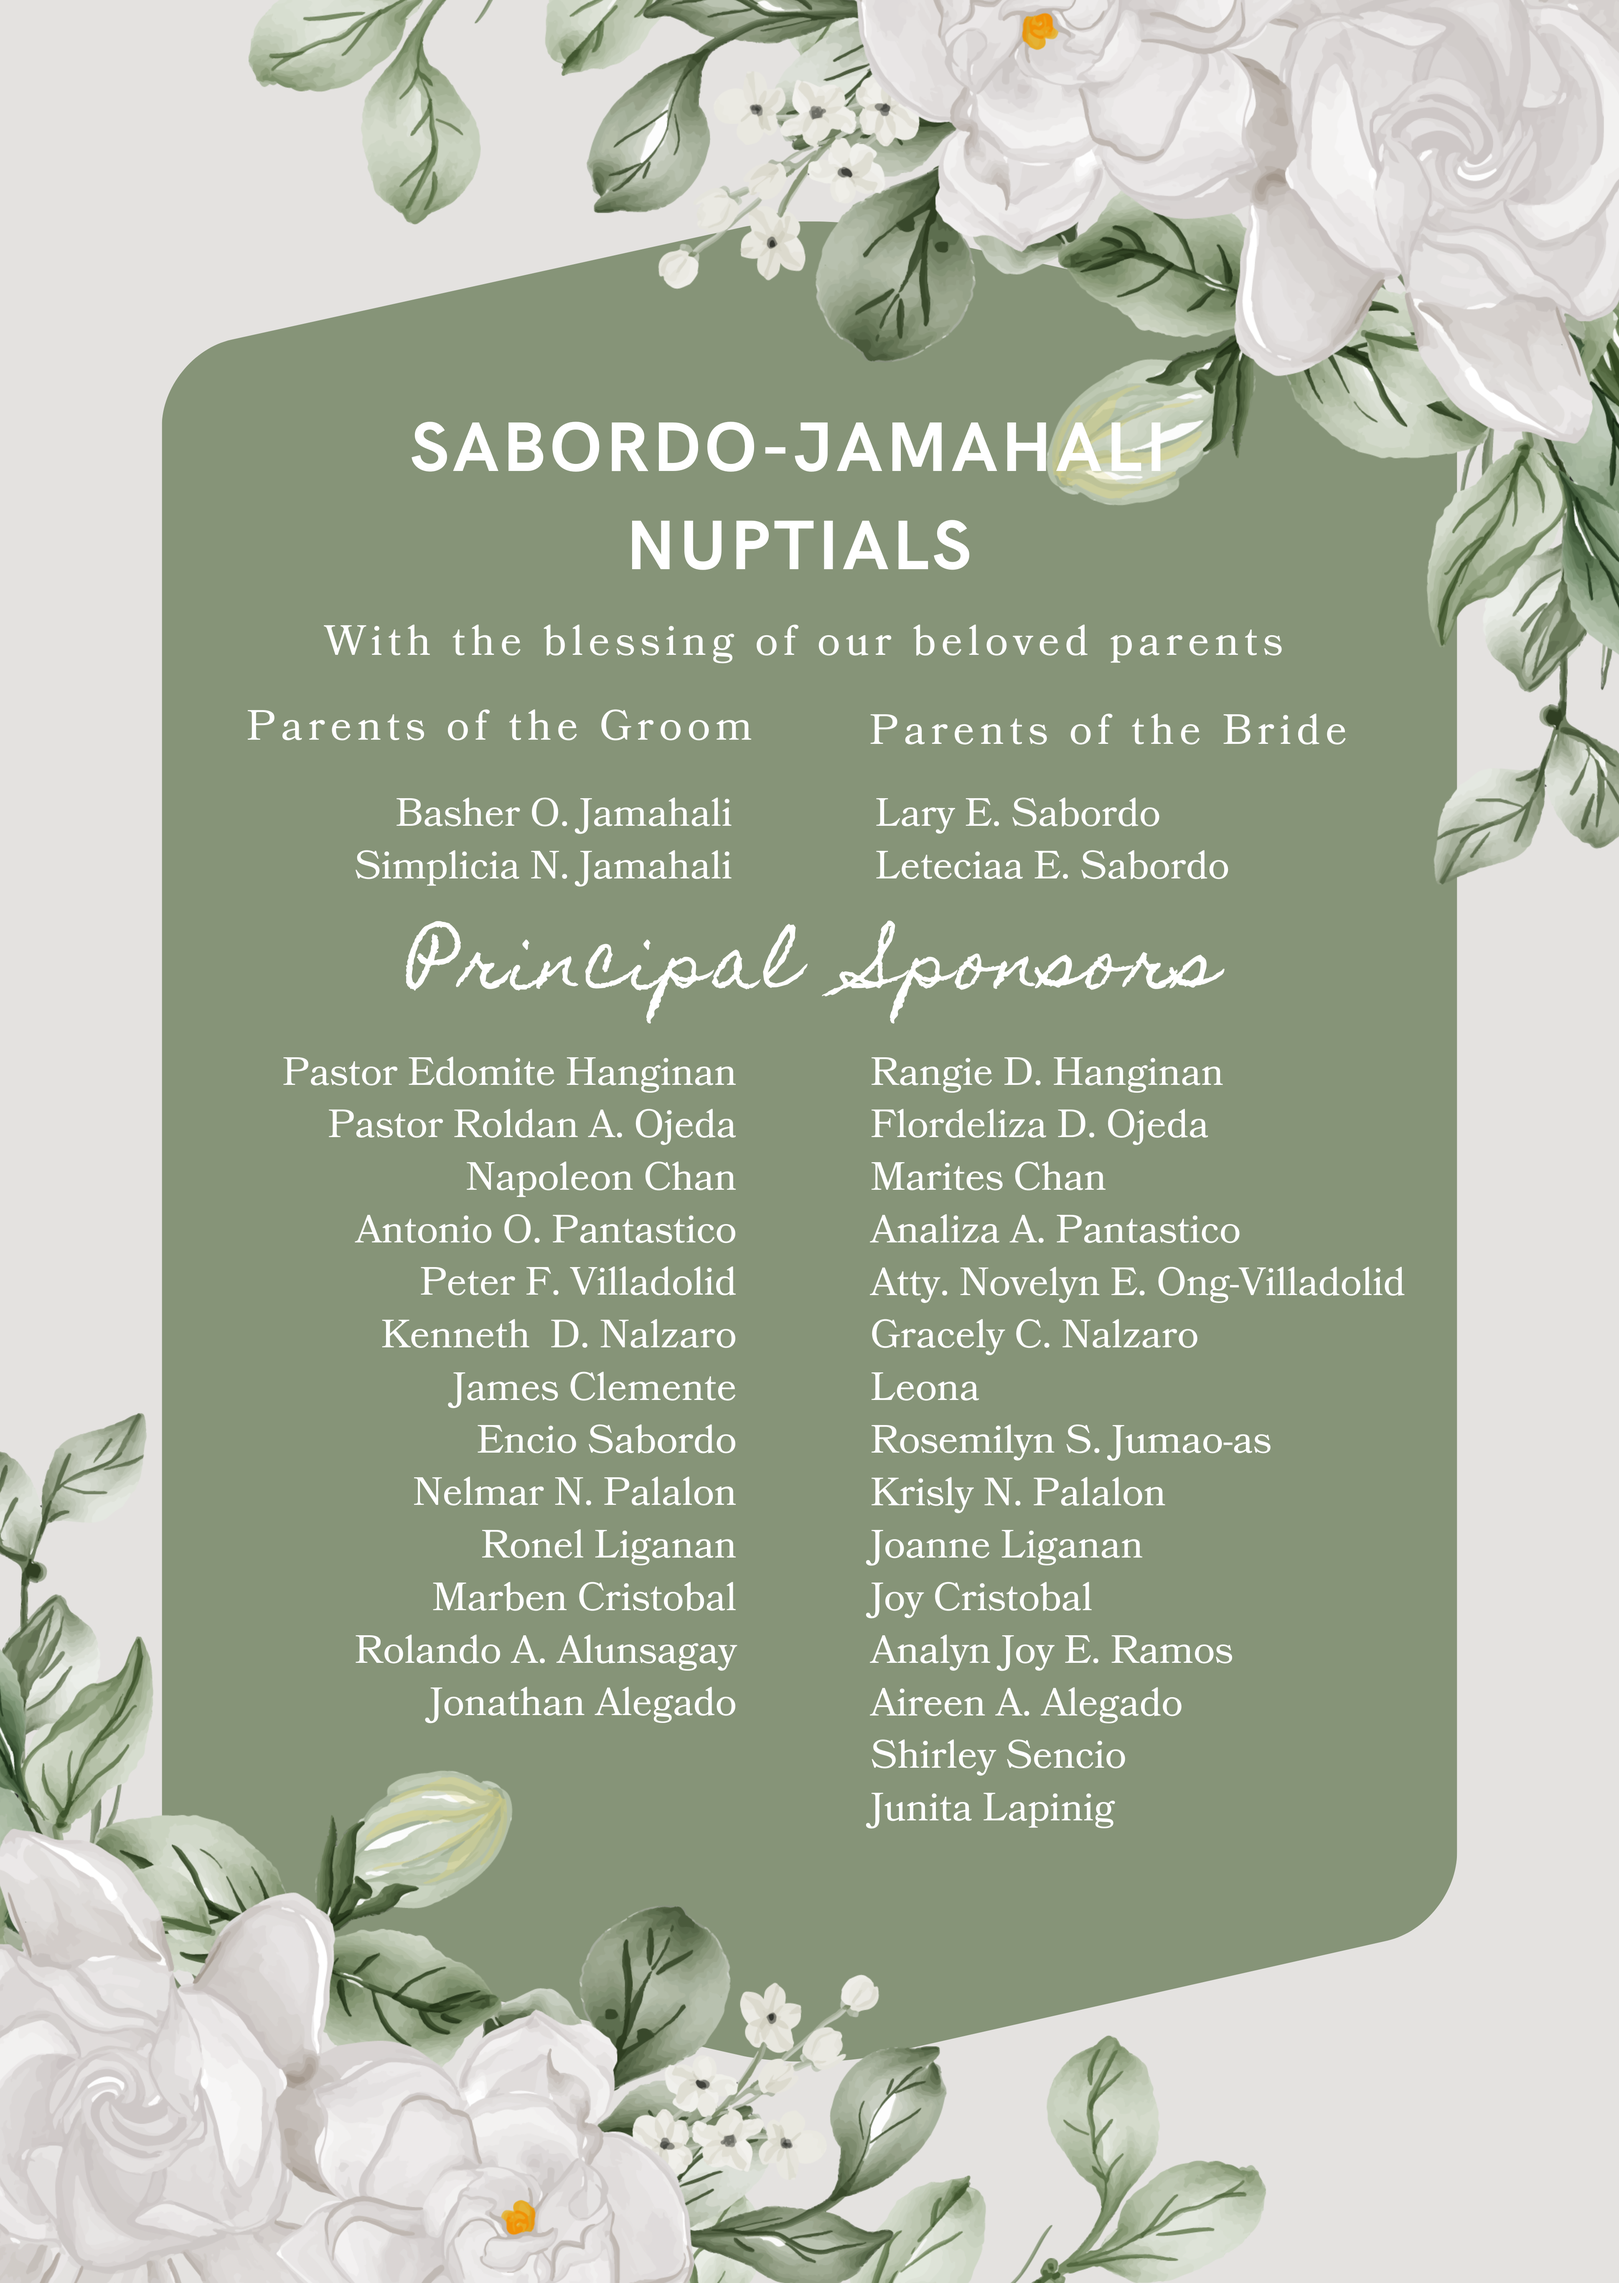
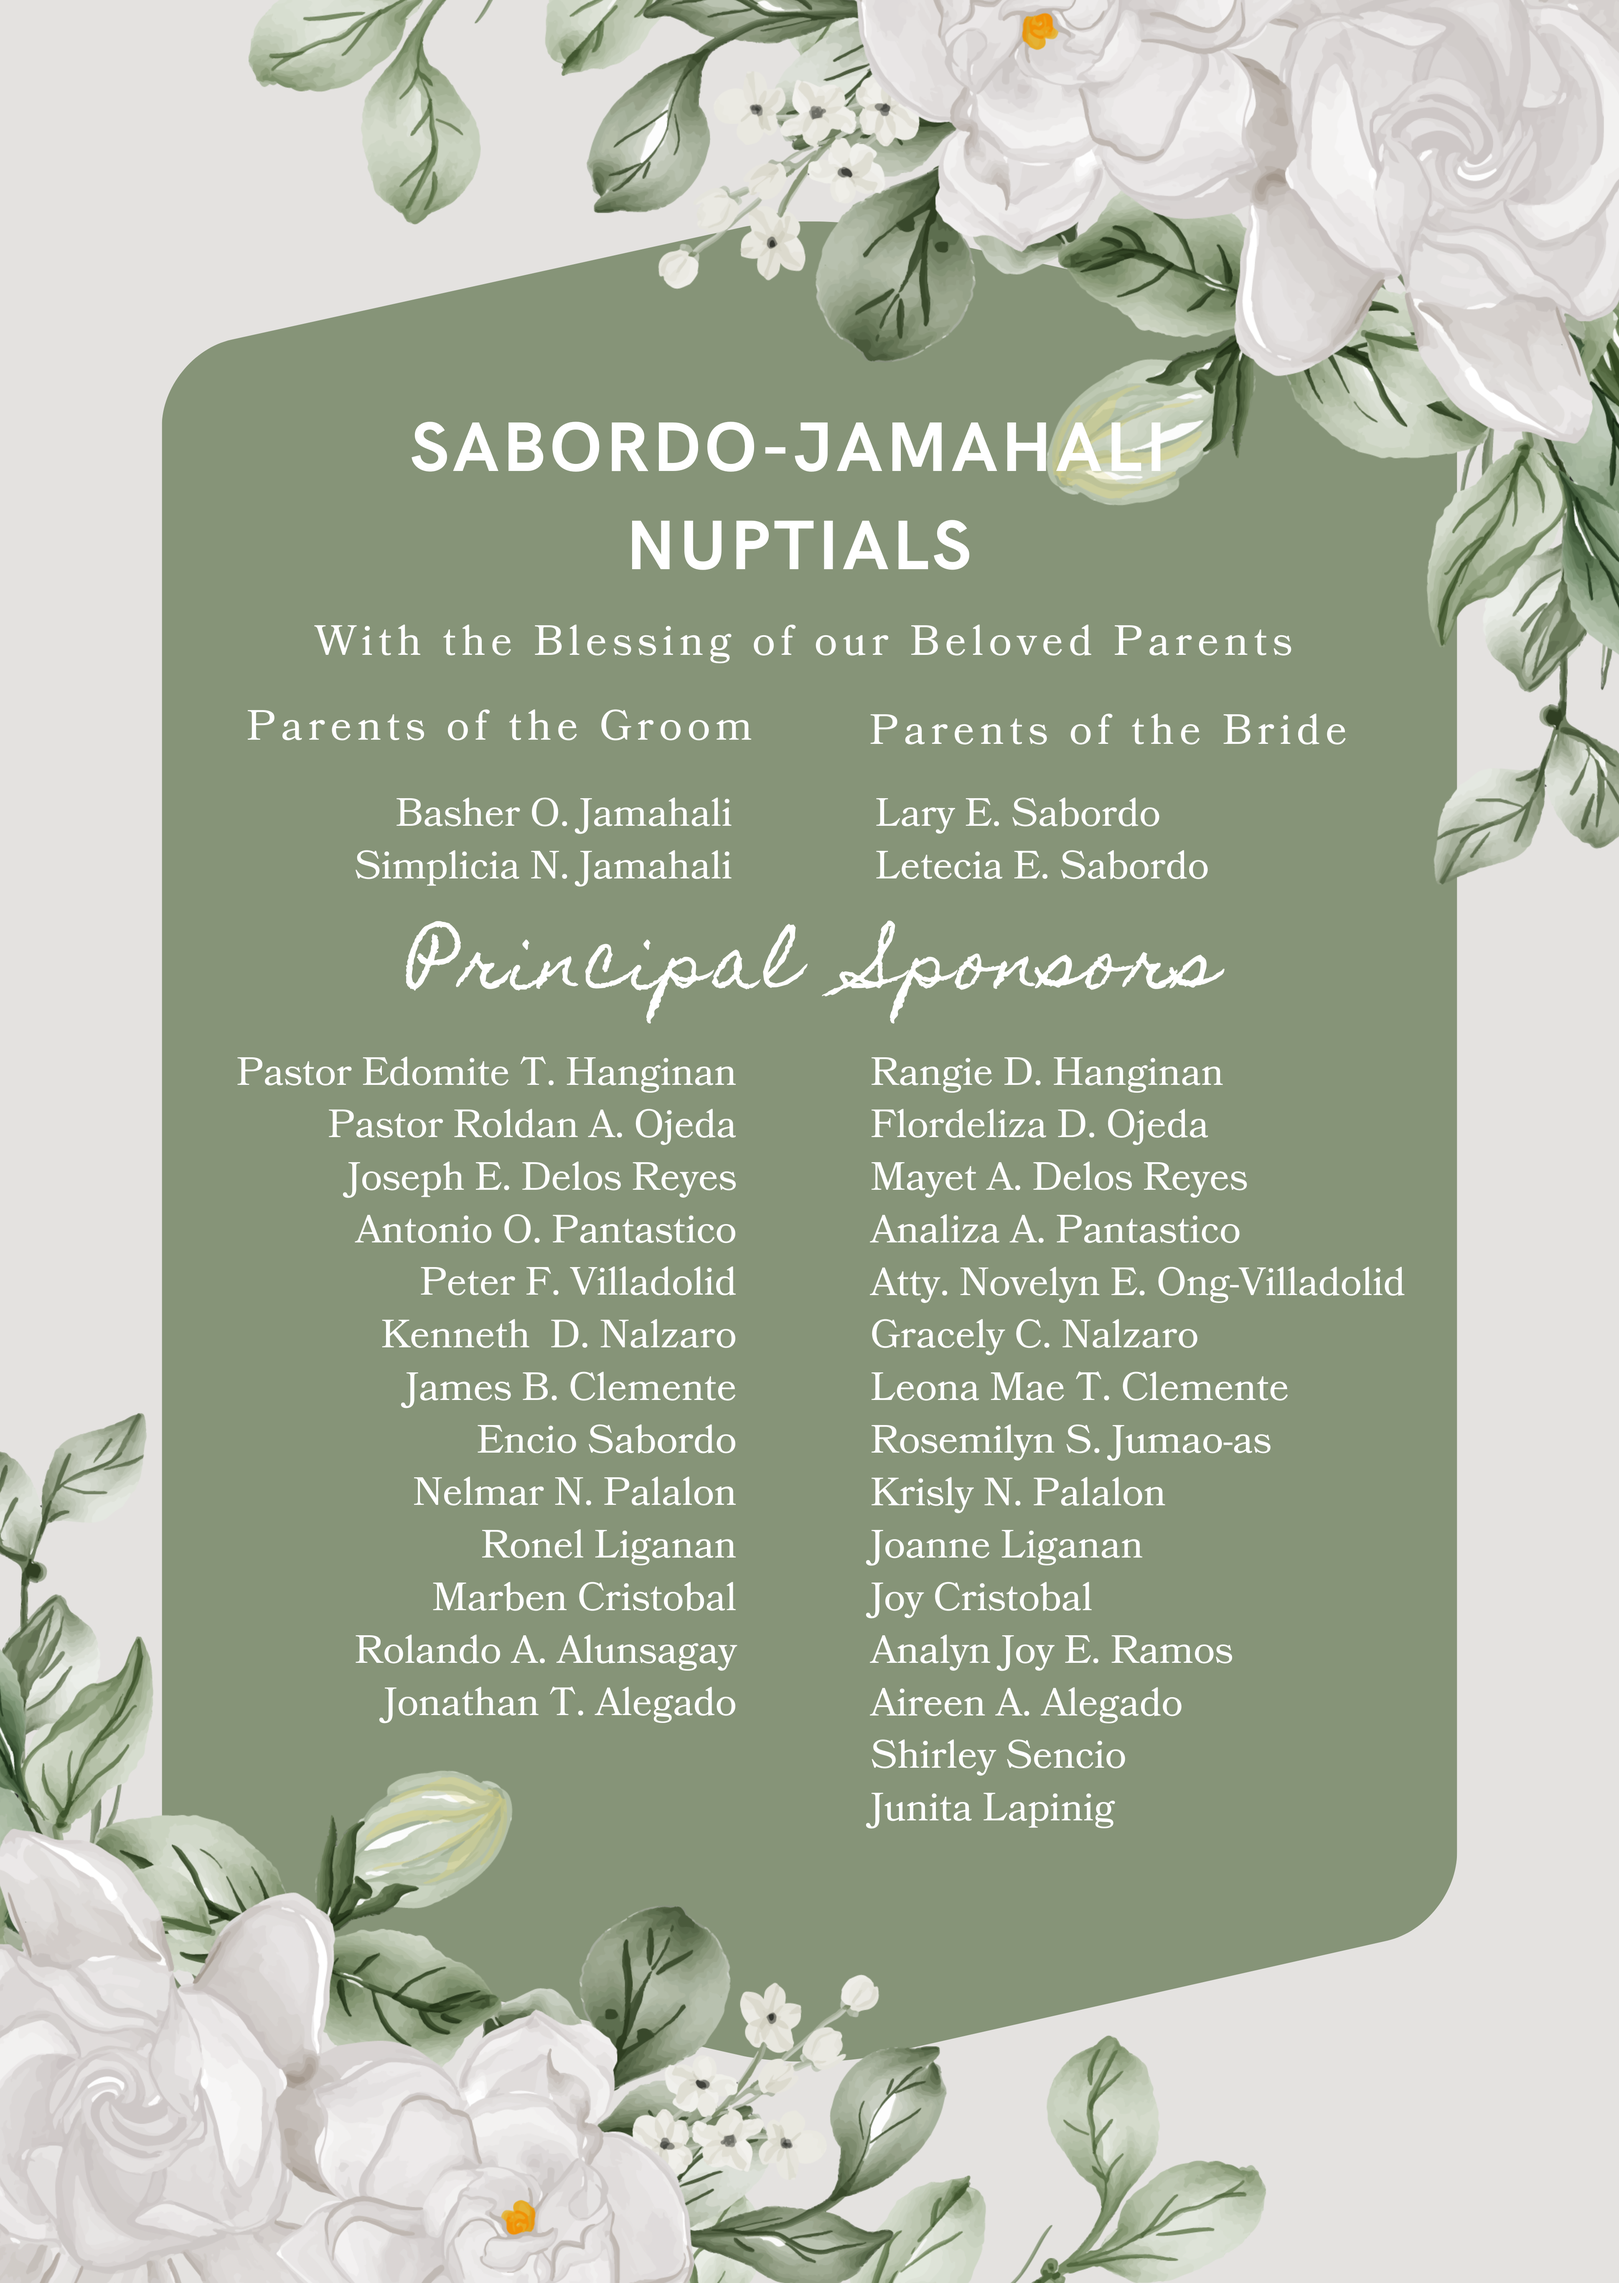
Add wedding information card image
Update the first invitation image and add a third image with dress code, gift guide QR codes, and adult-only celebration details.

diff --git a/index.html b/index.html
@@ -93,6 +93,17 @@
             decoding="async"
           />
         </div>
+        <div class="entourage-card-item">
+          <img
+            src="images/3.png"
+            alt="Wedding Information - Dress Code Palette Suggestion, Gift Guide with QR Codes, and Adult-Only Celebration Note"
+            class="entourage-card-img"
+            width="3875"
+            height="5462"
+            loading="lazy"
+            decoding="async"
+          />
+        </div>
       </div>
     </section>
 
